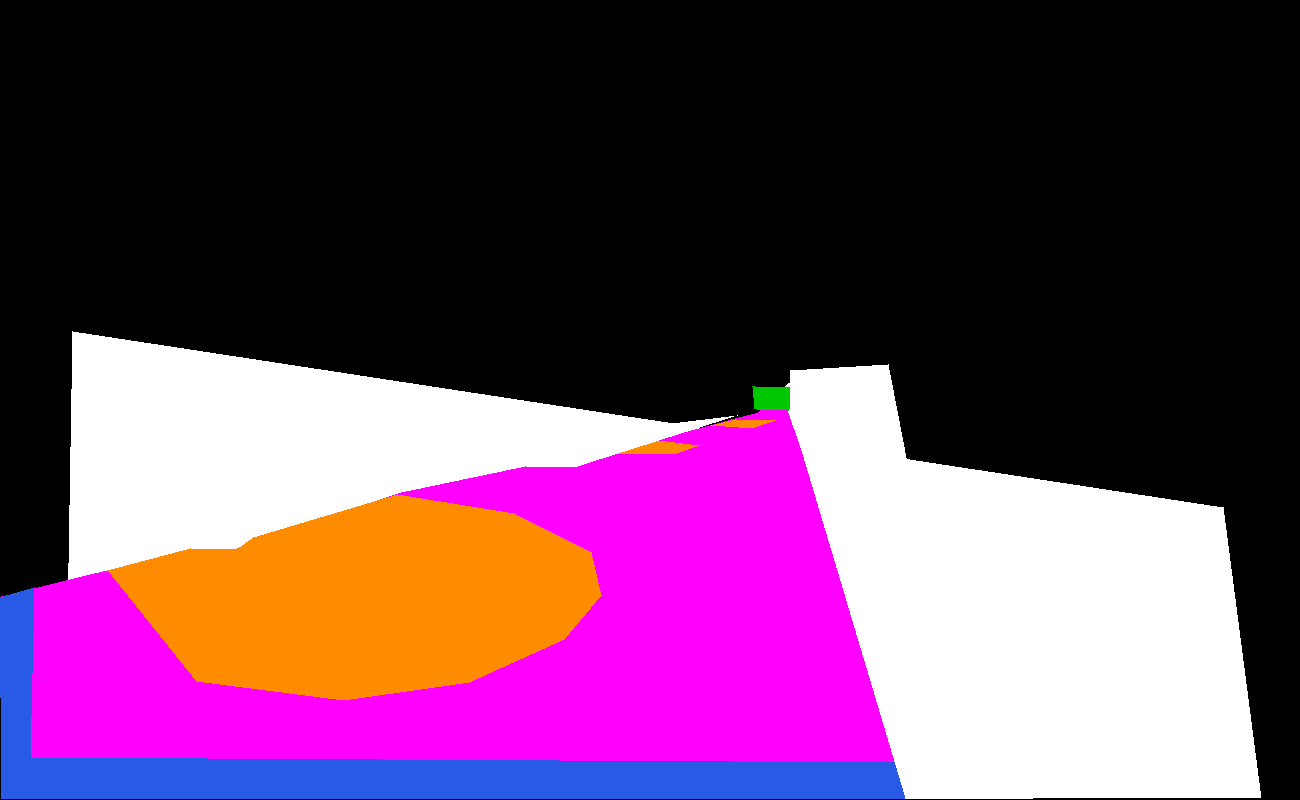
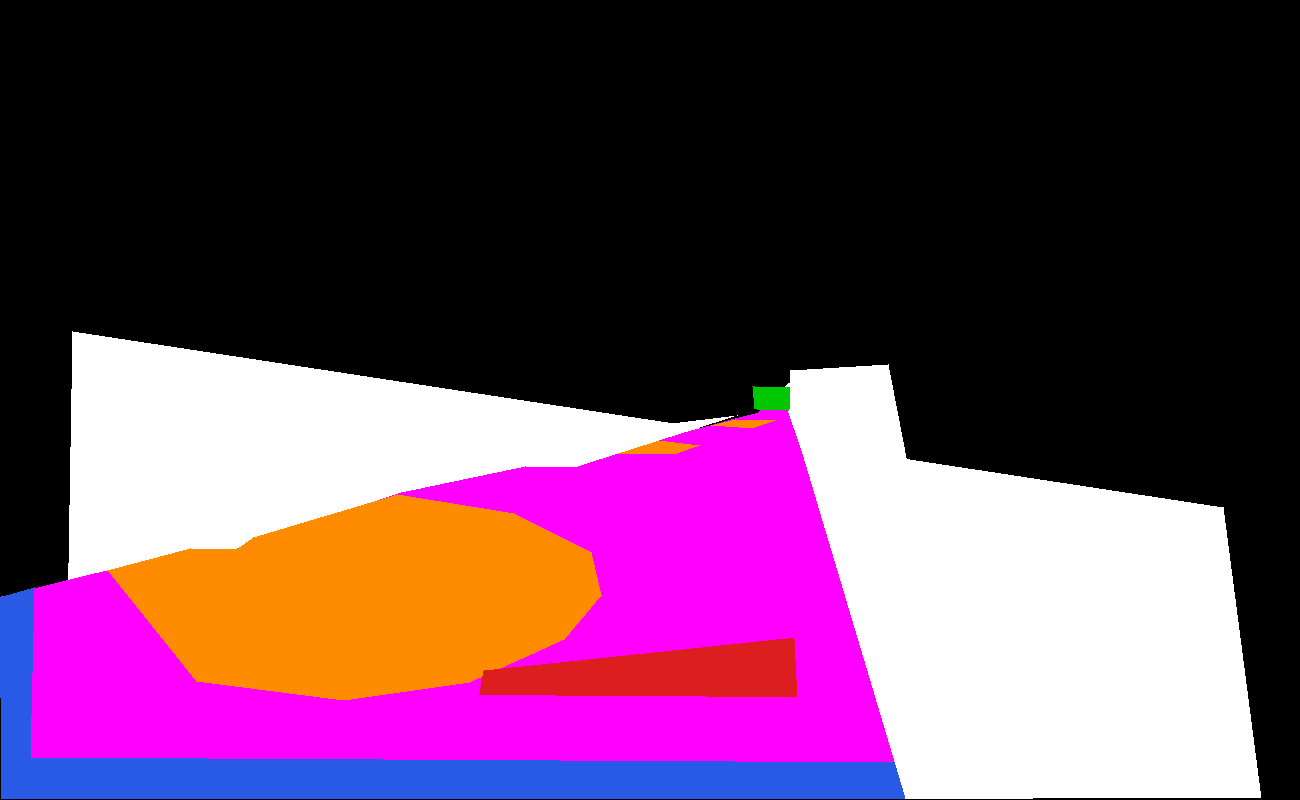
Objects get explicit z-index; new scene17 (Finch's apartment) + scene1 multi-door
- addObject now accepts `z` (explicit z-index, else feet y) so a takeable prop
  can sit ON scenery — the scene4 photo + pawn ticket now rest on the desk
  (z 702, above the desk objBlock's bottomY 698) instead of hiding behind it.
- New scene17 = Finch's apartment, reached from the FIRST door on Vesper St.
  Placeholder back.png/area.png (walkable floor + a blue door back to scene1) —
  replace with real art + repaint collision in the editor. MAX_LEVEL → 17.
- scene1 now declares an `exits` map so its three painted doors go to distinct
  scenes: first green → 17 (apartment), far-right green → 2 (docks), blue → 4.

Verified: scene1's two green doors resolve to distinct targets; first door →
apartment and the apartment's back door → scene1 round-trips.

(Also includes object-art updates: pawnticket_small.png, clerk.png, body.png, scene10.)

Changed region(s): [[0.3692, 0.7812, 0.6154, 0.875]]

diff --git a/rooms/scene17/js/settings.js b/rooms/scene17/js/settings.js
@@ -1,0 +1,16 @@
+/* THE GREEN BOOK — Finch's apartment (interior). Reached from the first door on
+ * Vesper Street (scene1). Placeholder art for now — replace back.png with the
+ * real interior and repaint area.png (the walkable floor + the blue door back to
+ * the hall) in the editor (E). Add clues/props in js/actions.js when ready. */
+var backgroundSize = 1300, // width of the game world, px
+  startingPoint = 630, // spawn x — just inside the door
+  farHeight = 270, // character height (px) at the back wall
+  nearHeight = 430, // character height (px) at the near edge
+  cloudSpeed = 0, // interior: no sky
+  character = "hatguy",
+  heroName = "Elias",
+  actionZones = [], // TODO: Finch's things to examine
+  backTo = 1, //  ← back out to Vesper Street (the blue door)
+  startingY = 560, // a step in front of the door, clear of the back zone
+  startingFacing = "f",
+  scene = 17;

diff --git a/rooms/scene4/js/actions.js b/rooms/scene4/js/actions.js
@@ -5,8 +5,9 @@ Nooir.addObject({
   id: "photo",
   image: "objects/photo.png",
   size: { w: 44, h: 54 },
-  x: 540,
-  y: 722,
+  x: 680,
+  y: 500,
+  z: 702, // drawn in front of the desk objBlock (bottomY 698), not behind it
   takeable: true,
   anim: "pickup",
   onInteract: function () {
@@ -16,10 +17,11 @@ Nooir.addObject({
 
 Nooir.addObject({
   id: "ticket",
-  image: "objects/ticket.png",
-  size: { w: 56, h: 34 },
-  x: 700,
-  y: 726,
+  image: "objects/pawnticket_small.png",
+  size: { w: 90, h: 56 },
+  x: 620,
+  y: 520, // up on the desk surface…
+  z: 702, // …but drawn in front of the desk objBlock (bottomY 698), not behind it
   takeable: true,
   anim: "pickup",
   onInteract: function () {

diff --git a/js/engine.js b/js/engine.js
@@ -15,7 +15,7 @@
   var BASE_SPEED = 260; // walk speed (px/s) at nearest/largest size
   var FRAME_MS = 130; // default ms per walk-cycle frame (higher = slower walk)
   var walkMs = FRAME_MS; // active character's walk-frame duration (set per character)
-  var MAX_LEVEL = 16; // highest scene that exists
+  var MAX_LEVEL = 17; // highest scene that exists (17 = Finch's apartment, off scene1)
   // dev tools (top toolbar + collision/placement editor) gate. config.js sets
   // `dev` (auto: on for localhost, off when deployed). Unset = on (back-compat).
   var DEV = window.dev !== false;
@@ -1700,6 +1700,10 @@
       label: opts.label, // shown when the inventory item is tapped
       look: opts.look, // optional longer description on tap (falls back to label/id)
       anim: opts.anim === undefined ? "grab" : opts.anim, // null = no animation
+      // explicit depth: z-index override (else the feet `y`, like NPCs). Use it
+      // to sit a prop ON scenery — e.g. a ticket on a desk needs z above the
+      // desk objBlock's `bottomY`, since its own small y would sort it behind.
+      z: typeof opts.z === "number" ? opts.z : null,
       onInteract:
         typeof opts.onInteract === "function" ? opts.onInteract : null,
       el: null,
@@ -1723,7 +1727,7 @@
       (o.y - h) +
       "px,0);" +
       "z-index:" +
-      Math.round(o.y) +
+      Math.round(o.z != null ? o.z : o.y) +
       ";";
     el.addEventListener("click", function (e) {
       e.stopPropagation(); // don't also trigger floor click-to-walk
@@ -4618,7 +4622,7 @@
     }, // run/kneel/reach… (null = walk)
     playCharAnim: playCharAnim, // one-shots take an onEnd callback
     flashMsg: flashMsg, // flashMsg(text, ms) — brief on-screen message
-    addObject: addObject, // place a prop/pickup: {id,image,size,x,y,takeable,onInteract}
+    addObject: addObject, // place a prop/pickup: {id,image,size,x,y,z?,takeable,onInteract}
     inventory: inventory, // array of {id,image} the character is carrying
     hasItem: hasItem, // hasItem(id) -> already picked up?
     story: story, // persisted story flags (branching state)

diff --git a/rooms/scene1/js/settings.js b/rooms/scene1/js/settings.js
@@ -11,8 +11,14 @@ var backgroundSize = 1300, // width of the game world, px
   heroName = "Elias",
   // story zones — examine Finch's door, work the pawn lockers (see actions.js)
   actionZones = [{"id":"finchdoor","cx":300,"cy":620},{"id":"lockers","cx":720,"cy":655}],
-  exitTo = 2, // → the docks (follow Finch's trail to Pier 7)
-  backTo = 4, // ← Elias's office
+  exitTo = 2, // → the docks (follow Finch's trail to Pier 7) — fallback for unmapped green
+  backTo = 4, // ← Elias's office — fallback for unmapped blue
+  // multi-door map: each painted door → its own scene, matched by centroid (≤90px)
+  exits = [
+    { to: 17, cx: 327, cy: 551 }, // first door (under the lamp) → Finch's apartment
+    { to: 2, cx: 1281, cy: 701 }, // street, far right → the docks (Pier 7)
+    { to: 4, cx: 18, cy: 704 }, //  ← back to Elias's office
+  ],
   startingY = 562,
   startingFacing = "f",
   scene = 1;

diff --git a/rooms/scene10/js/actions.js b/rooms/scene10/js/actions.js
@@ -5,9 +5,10 @@
 Nooir.addObject({
   id: "finchbody",
   image: "objects/body.png",
-  size: { w: 250, h: 126 },
+  size: { w: 350, h: 126 },
   x: 640,
-  y: 706,
+  y: 716,
+  z: 700, // dock objBlock is 698, so this draws in front but is still clickable
   takeable: false, // a body isn't pocket-sized
   anim: "pickup", // Elias crouches over it
   onInteract: function () {
@@ -16,7 +17,10 @@ Nooir.addObject({
       return;
     }
     Nooir.shake(500);
-    Nooir.flashMsg("Arthur Finch. Eight days of river on him. Something stiff sewn into the coat...", 2800);
+    Nooir.flashMsg(
+      "Arthur Finch. Eight days of river on him. Something stiff sewn into the coat...",
+      2800,
+    );
     Nooir.addObject({
       id: "greenbook",
       image: "objects/greenbook.png",

diff --git a/rooms/scene17/scene17.css b/rooms/scene17/scene17.css
@@ -1,0 +1,6 @@
+body, html { padding: 0; width: 100%; height: 100%; margin: 0 auto; text-align: center; background-color: black; overflow: hidden; }
+.background { background-image: url("back.png"); }
+.clouds, .background, .fence { background-position: center top; background-repeat: no-repeat; background-size: 100%; height: 100%; position: absolute; }
+.character { position: absolute; background-repeat: no-repeat; } /* sprite sheet set by engine.js */
+.msg { opacity: 0; position: absolute; margin: 0 auto; text-align: center; width: 200px; height: 100px; font-size: 16px; line-height: 100px; background-color: white; border: 1px solid black; border-radius: 5px; }
+.game { margin: 0 auto; text-align: center; position: fixed; height: 100%; left: 50%; }